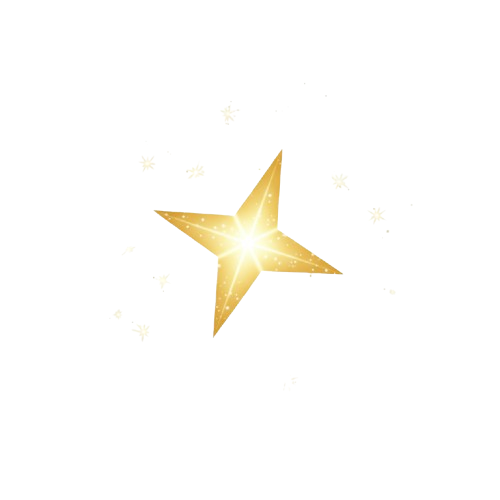
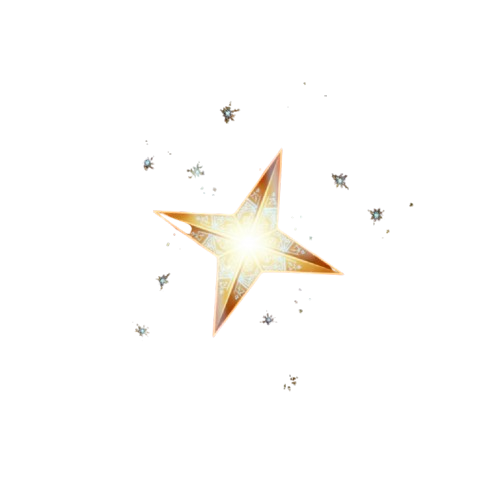
new tiles images

diff --git a/src/config/assets.js b/src/config/assets.js
@@ -3,12 +3,26 @@ export const ASSETS = {
     start_background: new URL('../assets/start_game_bg.jpg', import.meta.url).href,
     // Spin button assets: frame background + gold arrow
     spin: new URL('../assets/slotMachine/spin_btn/spinBtn.png', import.meta.url).href,
-    // Tiles spritesheets
-    tiles_50: new URL('../assets/slotMachine/tiles/50.png', import.meta.url).href,
-    tiles_29: new URL('../assets/slotMachine/tiles/29.png', import.meta.url).href,
-    tiles_34: new URL('../assets/slotMachine/tiles/34.png', import.meta.url).href,
+    // Individual tile images
+    tile_bai: new URL('../assets/slotMachine/tiles/bai.png', import.meta.url).href,
+    tile_bai_gold: new URL('../assets/slotMachine/tiles/bai_gold.png', import.meta.url).href,
+    tile_bawan: new URL('../assets/slotMachine/tiles/bamboo.png', import.meta.url).href,
+    tile_bawan_gold: new URL('../assets/slotMachine/tiles/bawan_gold.png', import.meta.url).href,
+    tile_bonus: new URL('../assets/slotMachine/tiles/bonus.png', import.meta.url).href,
+    tile_fa: new URL('../assets/slotMachine/tiles/fa.png', import.meta.url).href,
+    tile_fa_gold: new URL('../assets/slotMachine/tiles/fa_gold.png', import.meta.url).href,
+    tile_gold: new URL('../assets/slotMachine/tiles/gold.png', import.meta.url).href,
+    tile_liangsuo: new URL('../assets/slotMachine/tiles/liangsuo.png', import.meta.url).href,
+    tile_liangsuo_gold: new URL('../assets/slotMachine/tiles/liangsuo_gold.jpg', import.meta.url).href,
+    tile_liangtong: new URL('../assets/slotMachine/tiles/liangtong.png', import.meta.url).href,
+    tile_liangtong_gold: new URL('../assets/slotMachine/tiles/liangtong_gold.png', import.meta.url).href,
+    tile_wusuo: new URL('../assets/slotMachine/tiles/wusuo.png', import.meta.url).href,
+    tile_wusuo_gold: new URL('../assets/slotMachine/tiles/wusuo_gold.png', import.meta.url).href,
+    tile_wutong: new URL('../assets/slotMachine/tiles/wutong.png', import.meta.url).href,
+    tile_wutong_gold: new URL('../assets/slotMachine/tiles/wutong_gold.png', import.meta.url).href,
+    tile_zhong: new URL('../assets/slotMachine/tiles/zhong.png', import.meta.url).href,
+    tile_zhong_gold: new URL('../assets/slotMachine/tiles/zhong_gold.png', import.meta.url).href,
     tiles_star: new URL('../assets/slotMachine/tiles/star.png', import.meta.url).href,
-    tiles_51: new URL('../assets/slotMachine/tiles/51.png', import.meta.url).href,
     reels_bg: new URL('../assets/slotMachine/reels/bg.jpeg', import.meta.url).href,
     // Consecutive wins spritesheets
     header_multiplier_active: new URL('../assets/consecutiveWins/64.png', import.meta.url).href,

diff --git a/src/composables/slotMachine/reels/textures.js b/src/composables/slotMachine/reels/textures.js
@@ -2,12 +2,19 @@ import { Texture } from 'pixi.js'
 import { ASSETS } from '../../../config/assets'
 
 export function getTextureForSymbol(symbol, useGold = false) {
-    const alias = useGold ? `${symbol}_gold` : symbol
-    const src = ASSETS.loadedImages?.[alias] || ASSETS.imagePaths?.[alias]
+    // Map symbol name to tile asset key
+    const tileKey = useGold ? `tile_${symbol}_gold` : `tile_${symbol}`
+
+    // Try to get from loaded images first, then from image paths
+    const src = ASSETS.loadedImages?.[tileKey] || ASSETS.imagePaths?.[tileKey]
     if (src) return src instanceof Texture ? src : Texture.from(src)
+
+    // If gold version not found, fallback to normal version
     if (useGold) {
-        const normal = ASSETS.loadedImages?.[symbol] || ASSETS.imagePaths?.[symbol]
+        const normalKey = `tile_${symbol}`
+        const normal = ASSETS.loadedImages?.[normalKey] || ASSETS.imagePaths?.[normalKey]
         return normal ? (normal instanceof Texture ? normal : Texture.from(normal)) : null
     }
+
     return null
 }

diff --git a/src/composables/slotMachine/useRenderer.js b/src/composables/slotMachine/useRenderer.js
@@ -5,7 +5,6 @@ import { useHeader } from './header'
 import { useReels } from './reels'
 import { useFooter } from './footer'
 import { ASSETS } from '../../config/assets'
-import { composeTilesTextures } from './reels/tiles/tilesComposer'
 import { useGlowOverlay } from './reels/tiles/glowingComposer'
 import { createWinOverlay } from './overlay/winOverlay'
 
@@ -92,8 +91,6 @@ export function useRenderer(canvasState, gameState, gridState, controls) {
             root.addChild(winOverlay.container)
         }
 
-        // Compose all configured tiles from tiles_50 (idempotent)
-        composeTilesTextures(app)
         // Initialize consecutive wins composed textures
         if (header?.initializeComposedTextures) {
             header.initializeComposedTextures(app)

diff --git a/src/composables/slotMachine/reels/tiles/glowingComposer.js b/src/composables/slotMachine/reels/tiles/glowingComposer.js
@@ -135,7 +135,7 @@ export function useGlowOverlay(gameState, gridState, options = {}) {
     const boardH = ROWS_FULL * tileH + TOP_PARTIAL * tileH
     if (!maskGraphics) {
       maskGraphics = new Graphics()
-      container.addChild(maskGraphics)
+      // Don't add to container children - just set as mask directly
       container.mask = maskGraphics
     }
     maskGraphics.clear()
